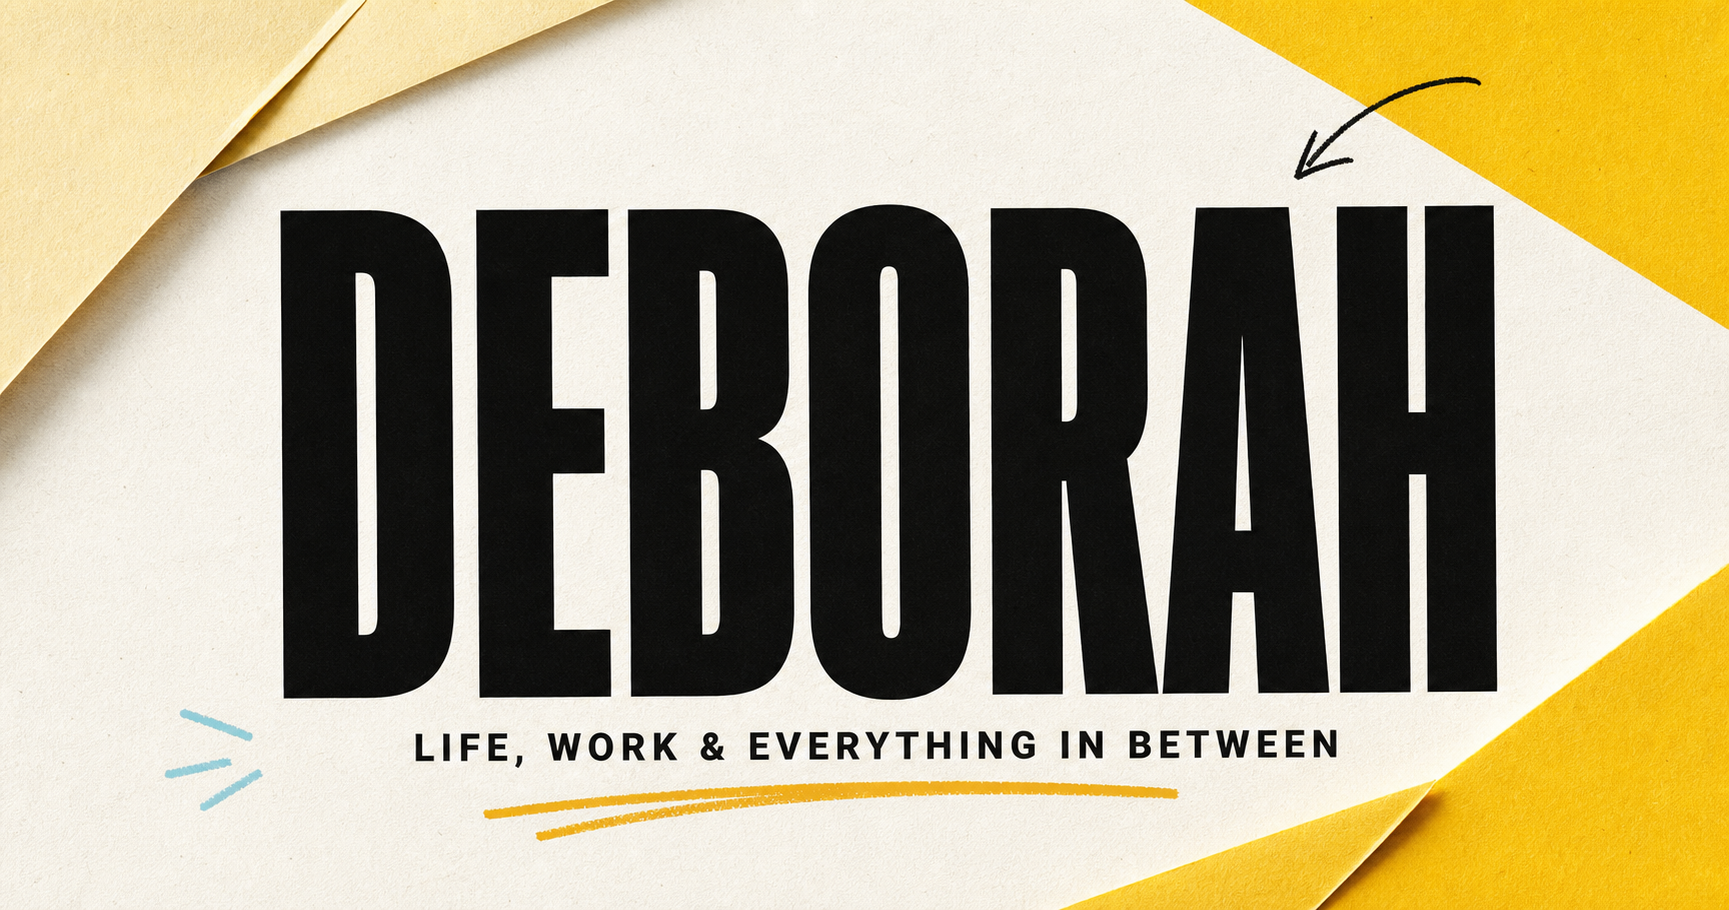
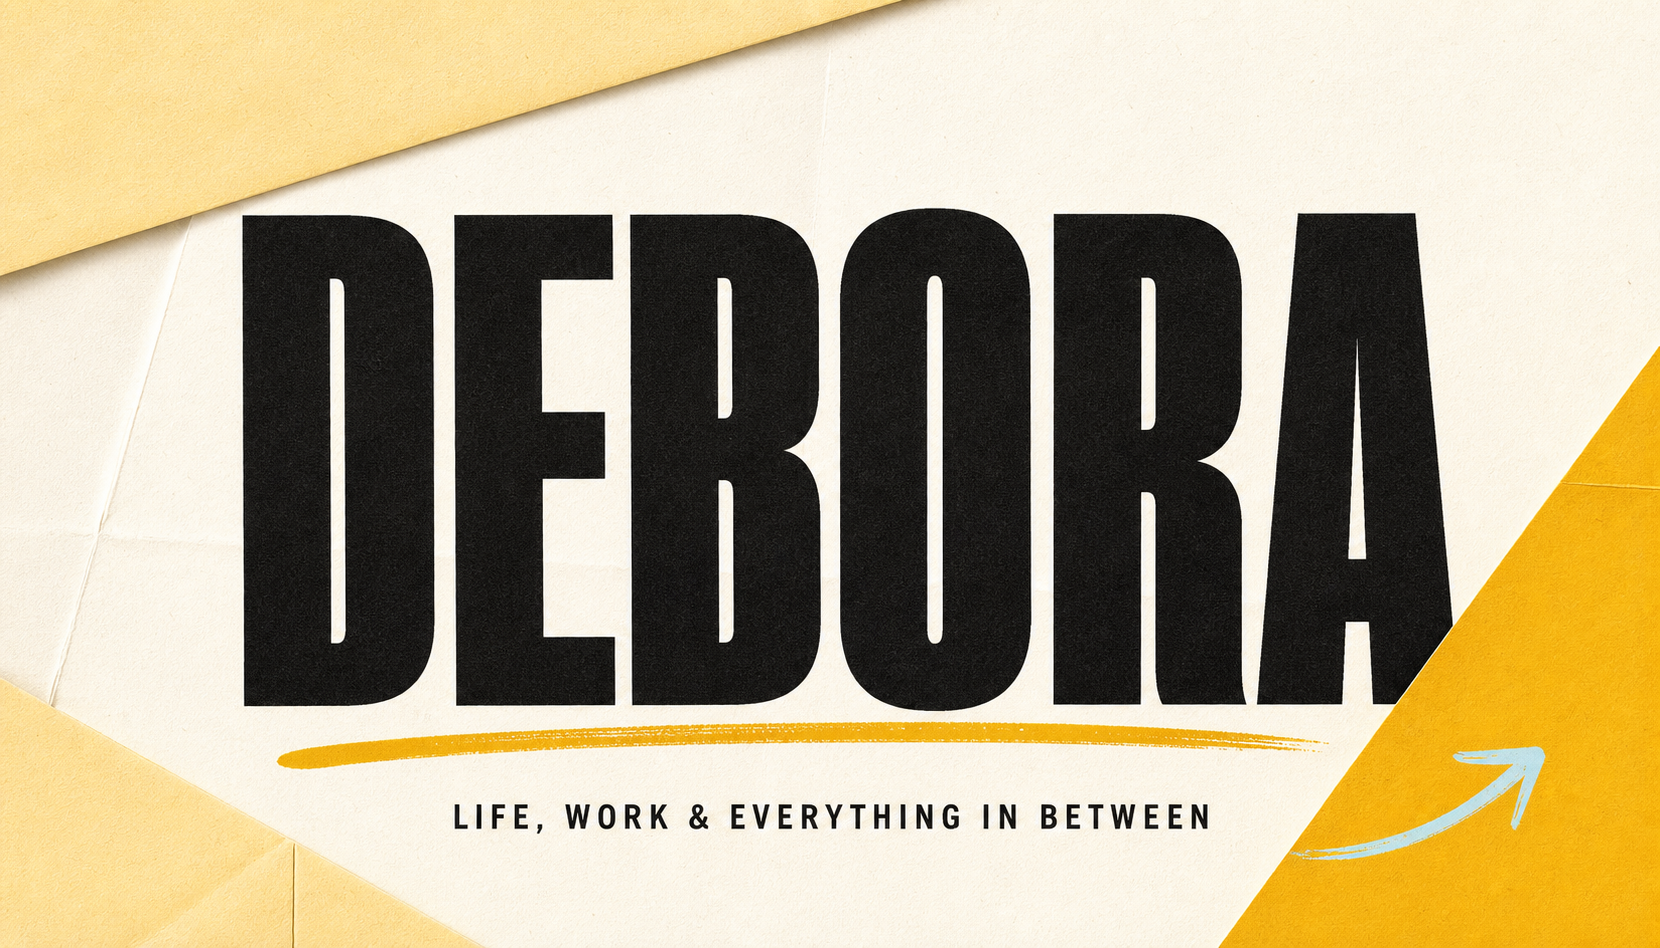
Correct Debora spelling and add LinkedIn story

diff --git a/app/page.tsx b/app/page.tsx
@@ -19,9 +19,9 @@ export default function Home() {
           <br />
           curious, direct &amp; always in motion.
         </p>
-        <h1 aria-label="Deborah">
+        <h1 aria-label="Debora">
           <span>DEBO</span>
-          <span>RAH</span>
+          <span>RA</span>
         </h1>
         <ArrowNote>start with the person, not the job title</ArrowNote>
       </section>
@@ -36,13 +36,14 @@ export default function Home() {
           </h2>
           <div className="manifesto-grid">
             <p>
-              I&apos;m Deborah: a learner, problem solver, communicator, and
-              momentum maker. I care about good work, honest feedback, and the
-              people building alongside me.
+              I&apos;m Debora Ruban Arumairaj: a full-time learner, part-time
+              side-quester, and Business Engineering student at KU Leuven.
             </p>
             <p>
-              This site collects the professional, personal, unfinished, and
-              occasionally unexpected parts of my story in one place.
+              Born in India, shaped by Ghana and Côte d&apos;Ivoire, and now
+              living in Belgium, I&apos;ve learned to adapt quickly, connect
+              across cultures, and communicate even when language tries to be a
+              barrier.
             </p>
           </div>
         </section>
@@ -51,11 +52,12 @@ export default function Home() {
       <section className="portrait-story section-pad">
         <PortraitStack />
         <Reveal className="portrait-copy">
-          <span className="eyebrow">Currently becoming</span>
+          <span className="eyebrow">Full-time learner</span>
           <h2>ONE PERSON.<br />A LOT OF TABS OPEN.</h2>
           <p>
-            I&apos;m most alive where ideas, people, and execution meet. Give
-            me a new subject, a real problem, and a deadline—I&apos;ll start
+            I&apos;m known for academic drive, public speaking, optimistic
+            problem-solving, and a tendency to turn every opportunity into a
+            side quest. Give me a real problem and a deadline—I&apos;ll start
             connecting the dots.
           </p>
           <Link className="text-link" href="/now">
@@ -66,7 +68,7 @@ export default function Home() {
 
       <section className="talents section-pad">
         <div className="section-heading">
-          <span className="eyebrow">Choose your Deborah</span>
+          <span className="eyebrow">Choose your Debora</span>
           <h2>FOUR MODES.<br />SAME HUMAN.</h2>
           <p className="hand-note">tap a card—no wrong character</p>
         </div>
@@ -100,7 +102,7 @@ export default function Home() {
               Explore my work
             </Link>
             <Link className="button button-light" href="/game">
-              Play the Deborah game
+              Play the Debora game
             </Link>
           </div>
         </section>
@@ -108,7 +110,7 @@ export default function Home() {
 
       <section className="contact-split">
         <p className="hand-note">have a project, question, or good plot twist?</p>
-        <a href={contactHref} className="contact-words" aria-label="Email Deborah">
+        <a href={contactHref} className="contact-words" aria-label="Email Debora">
           <span>GET</span>
           <span>IN</span>
           <span>TOUCH</span>

diff --git a/app/work/page.tsx b/app/work/page.tsx
@@ -4,36 +4,36 @@ import { Reveal } from "../../components/Reveal";
 
 const chapters = [
   {
-    year: "Chapter 01",
-    title: "The role that taught me to ask better questions",
-    type: "Career",
+    year: "U.S. Embassy · Belgium",
+    title: "Autonomy, automations & very creative Excel workarounds",
+    type: "Internship",
     color: "yellow",
-    copy: "Add the role, the team, and the moment Deborah realized the most useful person in the room is often the one making the problem clearer.",
-    tags: ["Strategy", "Research", "Collaboration"],
+    copy: "My first experience inside a government organization gave me full autonomy to explore ideas while working within serious security constraints. I automated processes, optimized Excel databases, joined site visits across Belgium, and learned why a scanner problem in Brussels can require a call to Washington.",
+    tags: ["Automation", "Excel", "Operations", "Site visits"],
   },
   {
-    year: "Chapter 02",
-    title: "The side project that refused to stay small",
-    type: "Project",
+    year: "Solvay Business Game",
+    title: "A finance challenge win built in a matter of hours",
+    type: "Case competition",
     color: "blue",
-    copy: "A home for the extracurricular project that shows initiative, curiosity, and what Deborah builds when nobody is assigning the work.",
-    tags: ["0 → 1", "Community", "Learning"],
+    copy: "Across two packed days, our teams tackled pitching, negotiation, marketing, and finance cases. For the CACEIS challenge, we produced a website, custom marketing videos, and a full financial analysis—with graphs—in only a few hours, and won.",
+    tags: ["CACEIS winner", "Finance", "Pitching", "Teamwork"],
   },
   {
-    year: "Chapter 03",
-    title: "Building trust across a very busy table",
-    type: "Collaboration",
+    year: "Belgian Sustainability Business Game",
+    title: "We won twice—and learned even more",
+    type: "Sustainability",
     color: "purple",
-    copy: "Tell the story through the people involved: the messy middle, the decisions made, and the small habit that changed the outcome.",
-    tags: ["Communication", "Operations", "Leadership"],
+    copy: "Our team won UCB’s challenge by tackling epilepsy awareness in rural Rwanda. During lunch, Femke and I also entered—and won—Euroclear’s optional pitching competition on making its sustainability actions future-proof.",
+    tags: ["UCB winner", "Euroclear winner", "CSR", "Strategy"],
   },
   {
-    year: "Chapter 04",
-    title: "The experiment I would absolutely try again",
-    type: "Extracurricular",
+    year: "Belgian Leadership Project",
+    title: "The people who raised my average",
+    type: "Community",
     color: "green",
-    copy: "Not every useful experience belongs on a CV. This one belongs here because it changed how Deborah thinks, works, or shows up.",
-    tags: ["Experimentation", "Ownership", "Joy"],
+    copy: "Leadership weekends brought together inspiring people, practical workshops, long walks, home-cooked meals, and conversations ranging from AI and female artists to black holes. It reinforced how much the right community expands what you imagine is possible.",
+    tags: ["Leadership", "Community", "Curiosity", "Belgium"],
   },
 ];
 

diff --git a/app/now/page.tsx b/app/now/page.tsx
@@ -13,32 +13,32 @@ export default function NowPage() {
           <span className="eyebrow">Main quest</span>
           <h2>Building the next chapter with intention.</h2>
           <p>
-            Replace this with Deborah&apos;s current role, project, search, or
-            learning season. Keep it specific enough to be useful and human
-            enough to feel alive.
+            I&apos;m pursuing a Bachelor of Business Engineering at KU Leuven
+            while collecting the lessons from my recent U.S. Embassy internship
+            and deciding which ambitious side quest deserves my energy next.
           </p>
         </article>
         <article className="now-card">
           <span className="eyebrow">Learning</span>
-          <h3>The topic currently taking over my notes app</h3>
-          <p>A course, question, skill, or delightfully niche rabbit hole.</p>
+          <h3>Winning business games without wasting the clock</h3>
+          <p>Turning case-competition lessons into practical shortcuts for standing out.</p>
         </article>
         <article className="now-card">
           <span className="eyebrow">Reading</span>
-          <h3>One book worth interrupting people about</h3>
-          <p>Add a title and one line about what it is changing.</p>
+          <h3>Leadership, business strategy & the power of one action</h3>
+          <p>The ideas shaping how I learn, lead, and show up for a team.</p>
         </article>
         <article className="now-card">
           <span className="eyebrow">Outside work</span>
-          <h3>Finding energy away from the screen</h3>
-          <p>A ritual, city, sport, friendship, or current small obsession.</p>
+          <h3>Community, travel & good book recommendations</h3>
+          <p>Plus baking and athletics that are, by all accounts, still works in progress.</p>
         </article>
         <article className="now-card now-open">
           <span className="eyebrow">Open to</span>
           <h3>Conversations with thoughtful people building useful things.</h3>
         </article>
       </section>
-      <p className="last-updated">Last updated: add date here • Porto / Amsterdam / wherever Deborah is now</p>
+      <p className="last-updated">Based in Belgium • shaped by India, Ghana & Côte d&apos;Ivoire</p>
     </SiteFrame>
   );
 }

diff --git a/app/layout.tsx b/app/layout.tsx
@@ -2,32 +2,32 @@ import type { Metadata } from "next";
 import "./globals.css";
 
 export const metadata: Metadata = {
-  metadataBase: new URL("https://deborah-documentary.sites.openai.com"),
+  metadataBase: new URL("https://deborah-documentary.michellescomputer.chatgpt.site"),
   title: {
-    default: "Deborah — Life, Work & Everything In Between",
-    template: "%s — Deborah",
+    default: "Debora — Life, Work & Everything In Between",
+    template: "%s — Debora",
   },
   description:
-    "An interactive documentary of Deborah's work, story, ideas, and way of working.",
+    "An interactive documentary of Debora Ruban Arumairaj's work, story, ideas, and way of working.",
   openGraph: {
-    title: "Deborah — Life, Work & Everything In Between",
+    title: "Debora — Life, Work & Everything In Between",
     description:
-      "Meet Deborah beyond the résumé: curious, direct, collaborative, and always learning.",
+      "Meet Debora beyond the résumé: a full-time learner, part-time side-quester, and Business Engineering student.",
     type: "website",
     images: [
       {
         url: "/og.png",
         width: 1729,
         height: 910,
-        alt: "Deborah — Life, Work & Everything In Between",
+        alt: "Debora — Life, Work & Everything In Between",
       },
     ],
   },
   twitter: {
     card: "summary_large_image",
-    title: "Deborah — Life, Work & Everything In Between",
+    title: "Debora — Life, Work & Everything In Between",
     description:
-      "Meet Deborah beyond the résumé: curious, direct, collaborative, and always learning.",
+      "Meet Debora beyond the résumé: a full-time learner, part-time side-quester, and Business Engineering student.",
     images: ["/og.png"],
   },
 };

diff --git a/app/articles/page.tsx b/app/articles/page.tsx
@@ -3,22 +3,22 @@ import { PageIntro, SiteFrame } from "../../components/SiteFrame";
 const articles = [
   {
     number: "001",
-    title: "The kind of ambition I want to keep",
-    deck: "On growing without turning your life into one endless optimization project.",
+    title: "Shortcuts to winning business games",
+    deck: "How to make every minute count before and during a case competition.",
     read: "6 min",
     color: "yellow",
   },
   {
     number: "002",
-    title: "Notes from the messy middle",
-    deck: "What unfinished work can teach us about clarity, confidence, and asking for help.",
+    title: "What can one person do? A lot.",
+    deck: "On compounding impact through one person, one action, and one word.",
     read: "4 min",
     color: "purple",
   },
   {
     number: "003",
-    title: "A small case for saying the direct thing",
-    deck: "Clear feedback is not unkind. Ambiguity usually costs everyone more.",
+    title: "Lessons from inside the U.S. Embassy",
+    deck: "Autonomy, security, eureka moments, and the art of a creative workaround.",
     read: "5 min",
     color: "green",
   },
@@ -46,7 +46,7 @@ export default function ArticlesPage() {
       </section>
       <div className="substack-note">
         <span className="hand-note">these previews live here; full essays live on Substack</span>
-        <a className="button button-dark" href="https://substack.com/">Visit Deborah&apos;s Substack ↗</a>
+        <a className="button button-dark" href="https://substack.com/">Visit Debora&apos;s Substack ↗</a>
       </div>
     </SiteFrame>
   );

diff --git a/app/game/page.tsx b/app/game/page.tsx
@@ -5,13 +5,13 @@ import { PageIntro, SiteFrame } from "../../components/SiteFrame";
 
 const questions = [
   {
-    prompt: "A project is stuck. Deborah's first move is…",
+    prompt: "A project is stuck. Debora's first move is…",
     answers: ["Make a prettier deck", "Ask what problem we are actually solving", "Schedule six meetings"],
     correct: 1,
     reveal: "Clarity before activity. Every time.",
   },
   {
-    prompt: "The best way to give Deborah feedback?",
+    prompt: "The best way to give Debora feedback?",
     answers: ["Use the sandwich method", "Hint at it for three weeks", "Say it clearly and specifically"],
     correct: 2,
     reveal: "Direct is kind. Specific is even kinder.",
@@ -103,7 +103,7 @@ export default function GamePage() {
                score >= 2 ? "You two should probably talk." :
                "Excellent excuse for a coffee."}
             </h2>
-            <p>The real Deborah is less multiple-choice. Luckily, she replies to email.</p>
+            <p>The real Debora is less multiple-choice. Luckily, she replies to email.</p>
             <button type="button" className="button button-light" onClick={restart}>Play again</button>
           </div>
         )}

diff --git a/components/SiteFrame.tsx b/components/SiteFrame.tsx
@@ -12,7 +12,7 @@ const navItems = [
 ];
 
 export const contactHref =
-  "mailto:hello@deborah.work?subject=Hello%20Deborah%20%E2%80%94%20let%27s%20work%20together&body=Hi%20Deborah%2C%0A%0AI%20found%20your%20website%20and%20wanted%20to%20reach%20out%20about...%0A%0ABest%2C";
+  "mailto:hello@debora.work?subject=Hello%20Debora%20%E2%80%94%20let%27s%20work%20together&body=Hi%20Debora%2C%0A%0AI%20found%20your%20website%20and%20wanted%20to%20reach%20out%20about...%0A%0ABest%2C";
 
 export function SiteFrame({
   children,
@@ -24,7 +24,7 @@ export function SiteFrame({
   const [dark, setDark] = useState(false);
 
   useEffect(() => {
-    const saved = window.localStorage.getItem("deborah-theme");
+    const saved = window.localStorage.getItem("debora-theme");
     const wantsDark =
       saved === "dark" ||
       (!saved && window.matchMedia("(prefers-color-scheme: dark)").matches);
@@ -36,7 +36,7 @@ export function SiteFrame({
     const next = !dark;
     setDark(next);
     document.documentElement.dataset.theme = next ? "dark" : "light";
-    window.localStorage.setItem("deborah-theme", next ? "dark" : "light");
+    window.localStorage.setItem("debora-theme", next ? "dark" : "light");
   }
 
   return (

diff --git a/app/testimonials/page.tsx b/app/testimonials/page.tsx
@@ -3,9 +3,9 @@ import { Reveal } from "../../components/Reveal";
 
 const stories = [
   {
-    quote: "Deborah makes complicated things feel possible—and makes the people around her feel capable.",
+    quote: "Michelle’s testimonial for Debora will live here.",
     name: "Michelle",
-    relation: "Collaborator & friend",
+    relation: "Testimonial placeholder",
     color: "yellow",
   },
   {

diff --git a/components/PortraitStack.tsx b/components/PortraitStack.tsx
@@ -34,7 +34,7 @@ export function PortraitStack() {
         </div>
       ))}
       <span className="portrait-caption">
-        drop Deborah&apos;s favorite photos here
+        drop Debora&apos;s favorite photos here
       </span>
     </div>
   );
